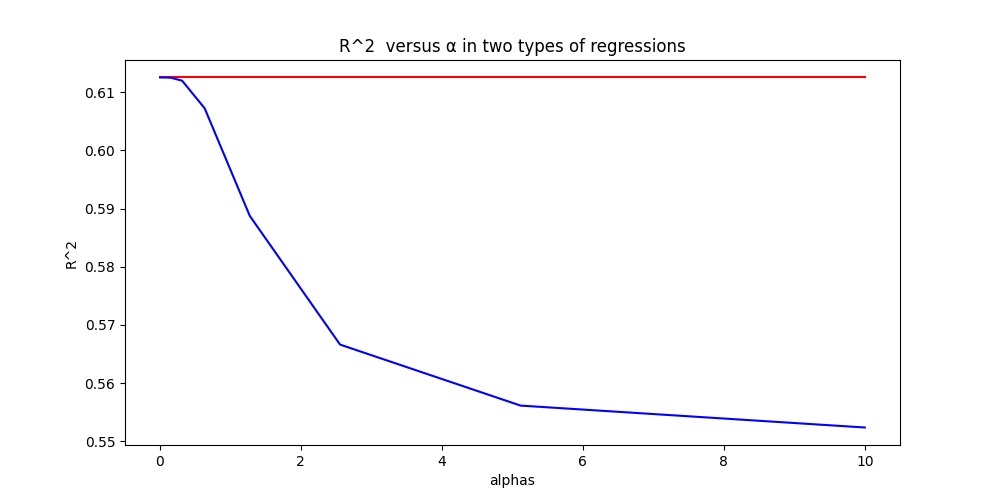
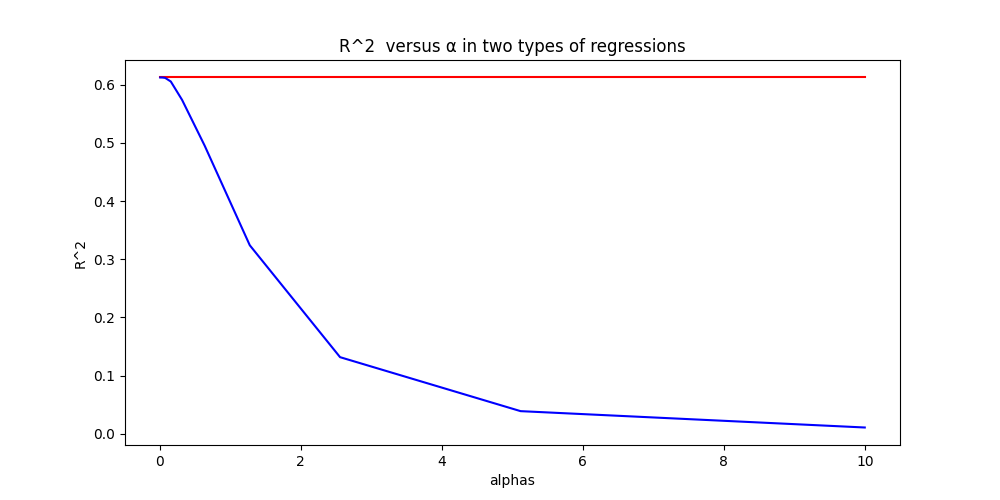
ridge regression revisited

diff --git a/homework/HW3/HW3-final/Regression.py b/homework/HW3/HW3-final/Regression.py
@@ -51,10 +51,17 @@ class RidgeRegression(Regression):
         self.alpha = alpha
 
     def fit(self, x, y):
-        X = np.append(x, [[1]] * len(y), axis=1)
-        M = self.alpha * np.eye(X.shape[1])
-        Beta = np.dot(np.linalg.pinv(np.dot(X.T, X) + np.dot(M.T, M)), np.dot(X.T, y))
 
-        self.params['coef'] = Beta[:-1]
-        self.params['intercept'] = Beta[-1]
-        # return self.params['coef'], self.params['intercept']
+        # center and scale data
+        ymean = np.mean(y)
+        Xmean = np.mean(x, axis=0)
+        scale = 1 / np.sqrt(np.sum((x - Xmean) ** 2, axis=0))
+        Xs = (x - Xmean) * scale
+        ys = y - ymean
+
+        gamma = self.alpha * np.identity(Xs.shape[1])
+        beta = np.linalg.pinv(Xs.T.dot(Xs) + gamma.T.dot(gamma)).dot(
+            Xs.T).dot(ys)
+        beta *= scale
+        self.params['coef'] = beta
+        self.params['intercept'] = ymean - Xmean.dot(beta)

diff --git a/homework/HW3/HW3-final/model_scoring.py b/homework/HW3/HW3-final/model_scoring.py
@@ -29,7 +29,7 @@ for model in models:
 # print(reg.coef_)
 # print(reg.intercept_)
 #
-# ridge = Ridge(alpha=1.0).fit(X_train,y_train)
+# ridge = Ridge(alpha=0.1).fit(X_train,y_train)
 # print(ridge.score(X_train,y_train))
 # print(ridge.coef_)
 # print(ridge.intercept_)
